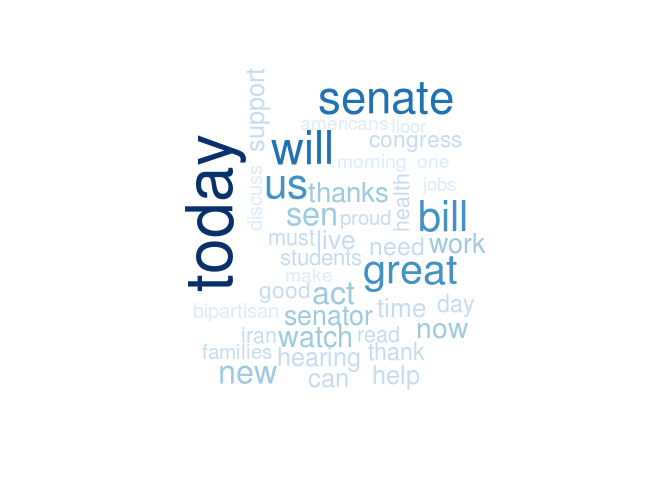
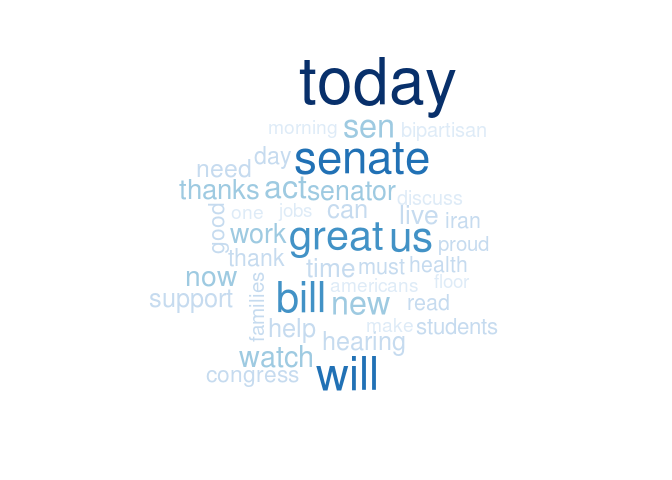
Updating README

Changed region(s): [[0.2188, 0.125, 0.75, 0.8125]]

diff --git a/README.md b/README.md
@@ -1,7 +1,7 @@
 twitterreport
 =============
 
-[![Build Status](https://travis-ci.org/gvegayon/twitterreport.svg?branch=master)](https://travis-ci.org/gvegayon/twitterreport)[![Build status](https://ci.appveyor.com/api/projects/status/a7ki7jlc5qht4dmn?svg=true)](https://ci.appveyor.com/project/gvegayon/twitterreport)
+[![Build Status](https://travis-ci.org/gvegayon/twitterreport.svg?branch=master)](https://travis-ci.org/gvegayon/twitterreport) [![Build status](https://ci.appveyor.com/api/projects/status/a7ki7jlc5qht4dmn?svg=true)](https://ci.appveyor.com/project/gvegayon/twitterreport)
 
 Out-of-the-box analysis and reporting tools for twitter
 
@@ -54,15 +54,28 @@ tweets <- do.call(rbind, tweets)
 head(tweets)
 ```
 
-### Creating a network of mentions
+### Creating a (fancy) network of mentions
 
 ``` r
-# First, we need to extract the mentions from the message
-contents <- tw_extract(tweets$text)
+# Loading data
+data("senators")
+data("senators_profile")
+data("senate_tweets")
 
-# Building the network and visualizing it as a D3js graph!
-graph <- tw_network(tweets$screen_name, contents$mentions, minInteract=3)
-plot(graph)
+tweets_components <- tw_extract(senate_tweets$text)
+groups <- data.frame(
+  name      = senators_profile$tw_screen_name,
+  group     = factor(senators$party),
+  real_name = senators$Name,
+  stringsAsFactors = FALSE)
+groups$name <- tolower(groups$name)
+
+senate_network <- tw_network(
+  tolower(senate_tweets$screen_name),
+  lapply(tweets_components$mention,unique),only.from = TRUE,
+  group=groups, min.interact = 3)
+
+plot(senate_network, nodelabel='real_name')
 ```
 
 ![](README_files/figure-markdown_github/network.png)
@@ -95,6 +108,7 @@ senate_tweets$text[1:2];tab[1:2]
 
 ``` r
 # Plot
+set.seed(123) # (so the wordcloud looks the same always)
 plot(tab, max.n.words = 40)
 ```
 
@@ -140,7 +154,7 @@ The function `tw_leaflet` provides a nice wrapper for the function `leaflet` of
 the package of the same name. Using D3js, we can visualize the number of tweets grouped up geographically as the following example shows:
 
 ``` r
-tw_leaflet(senate_tweets,~coordinates, nclusters=3)
+tw_leaflet(senate_tweets,~coordinates, nclusters=4,radii = ~sqrt(n)*3e5)
 ```
 
 ![](README_files/figure-markdown_github/leaflet_map.png)
